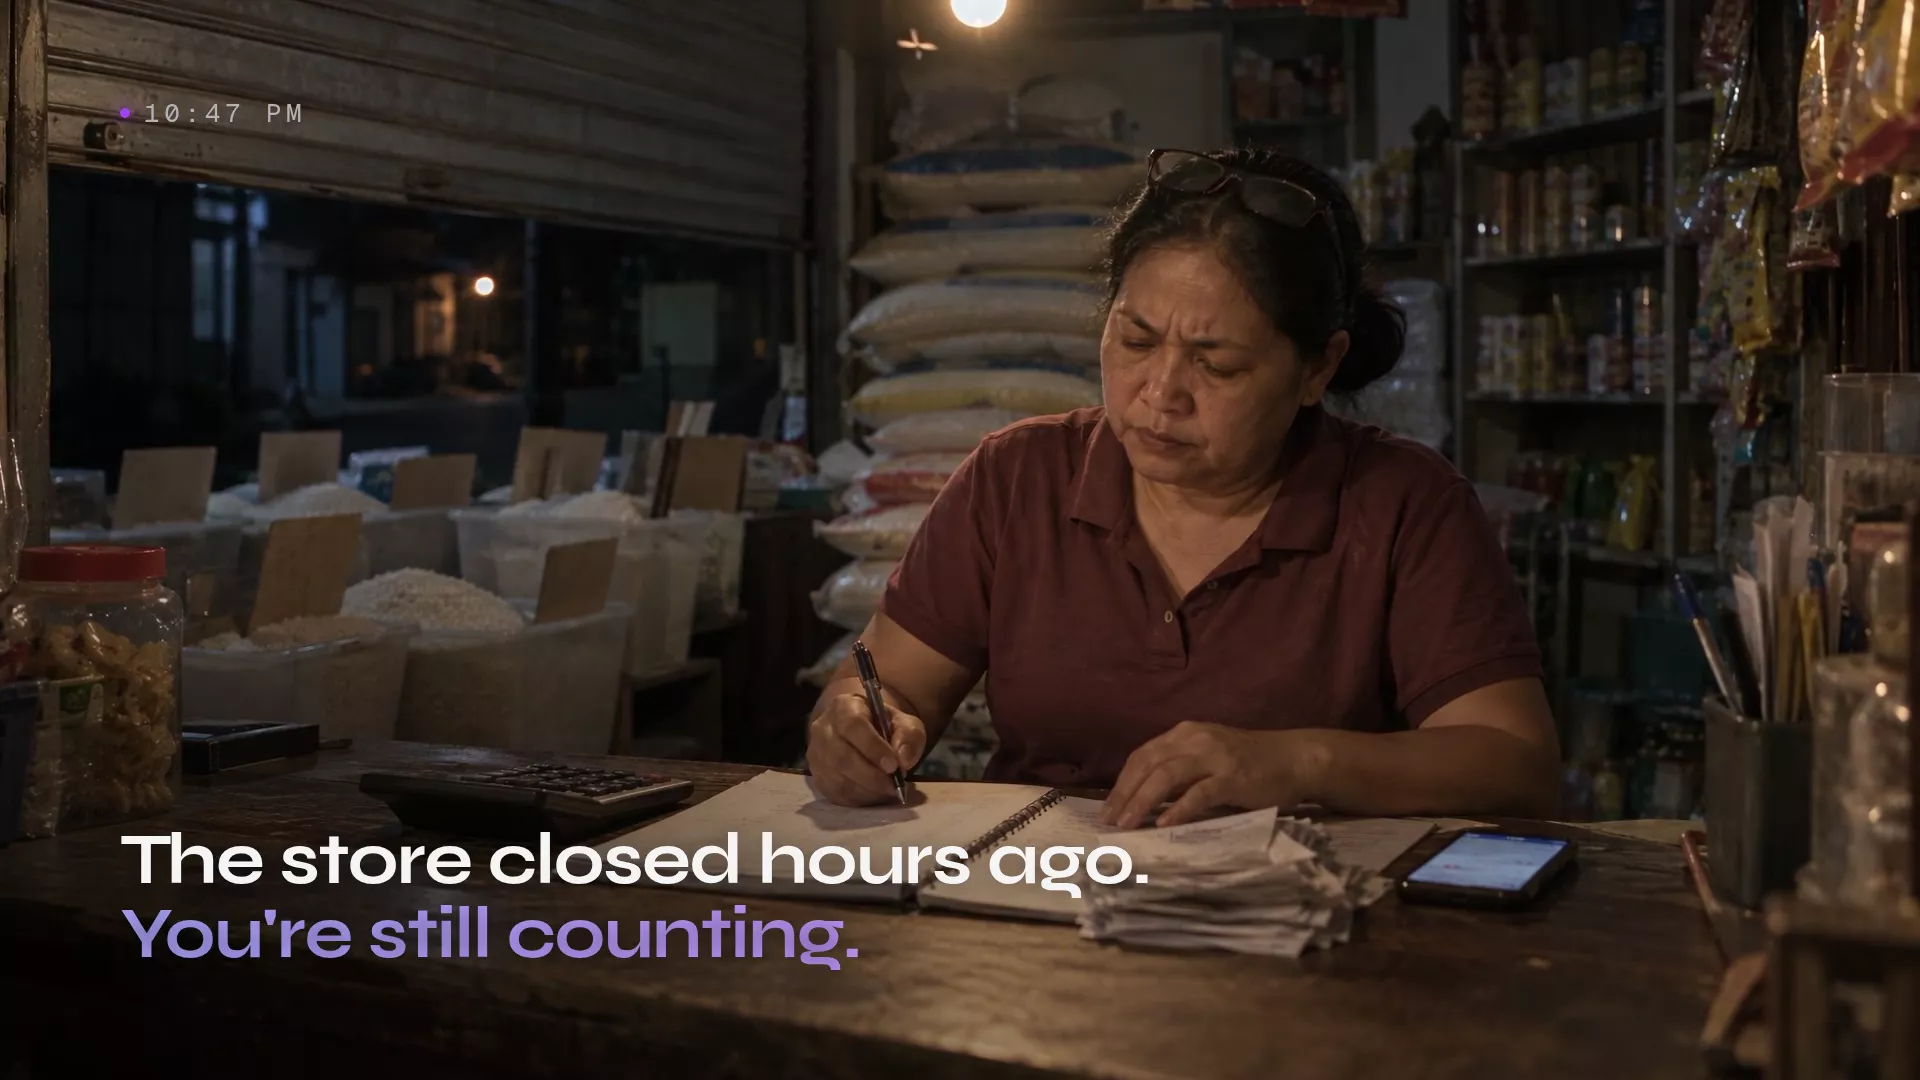
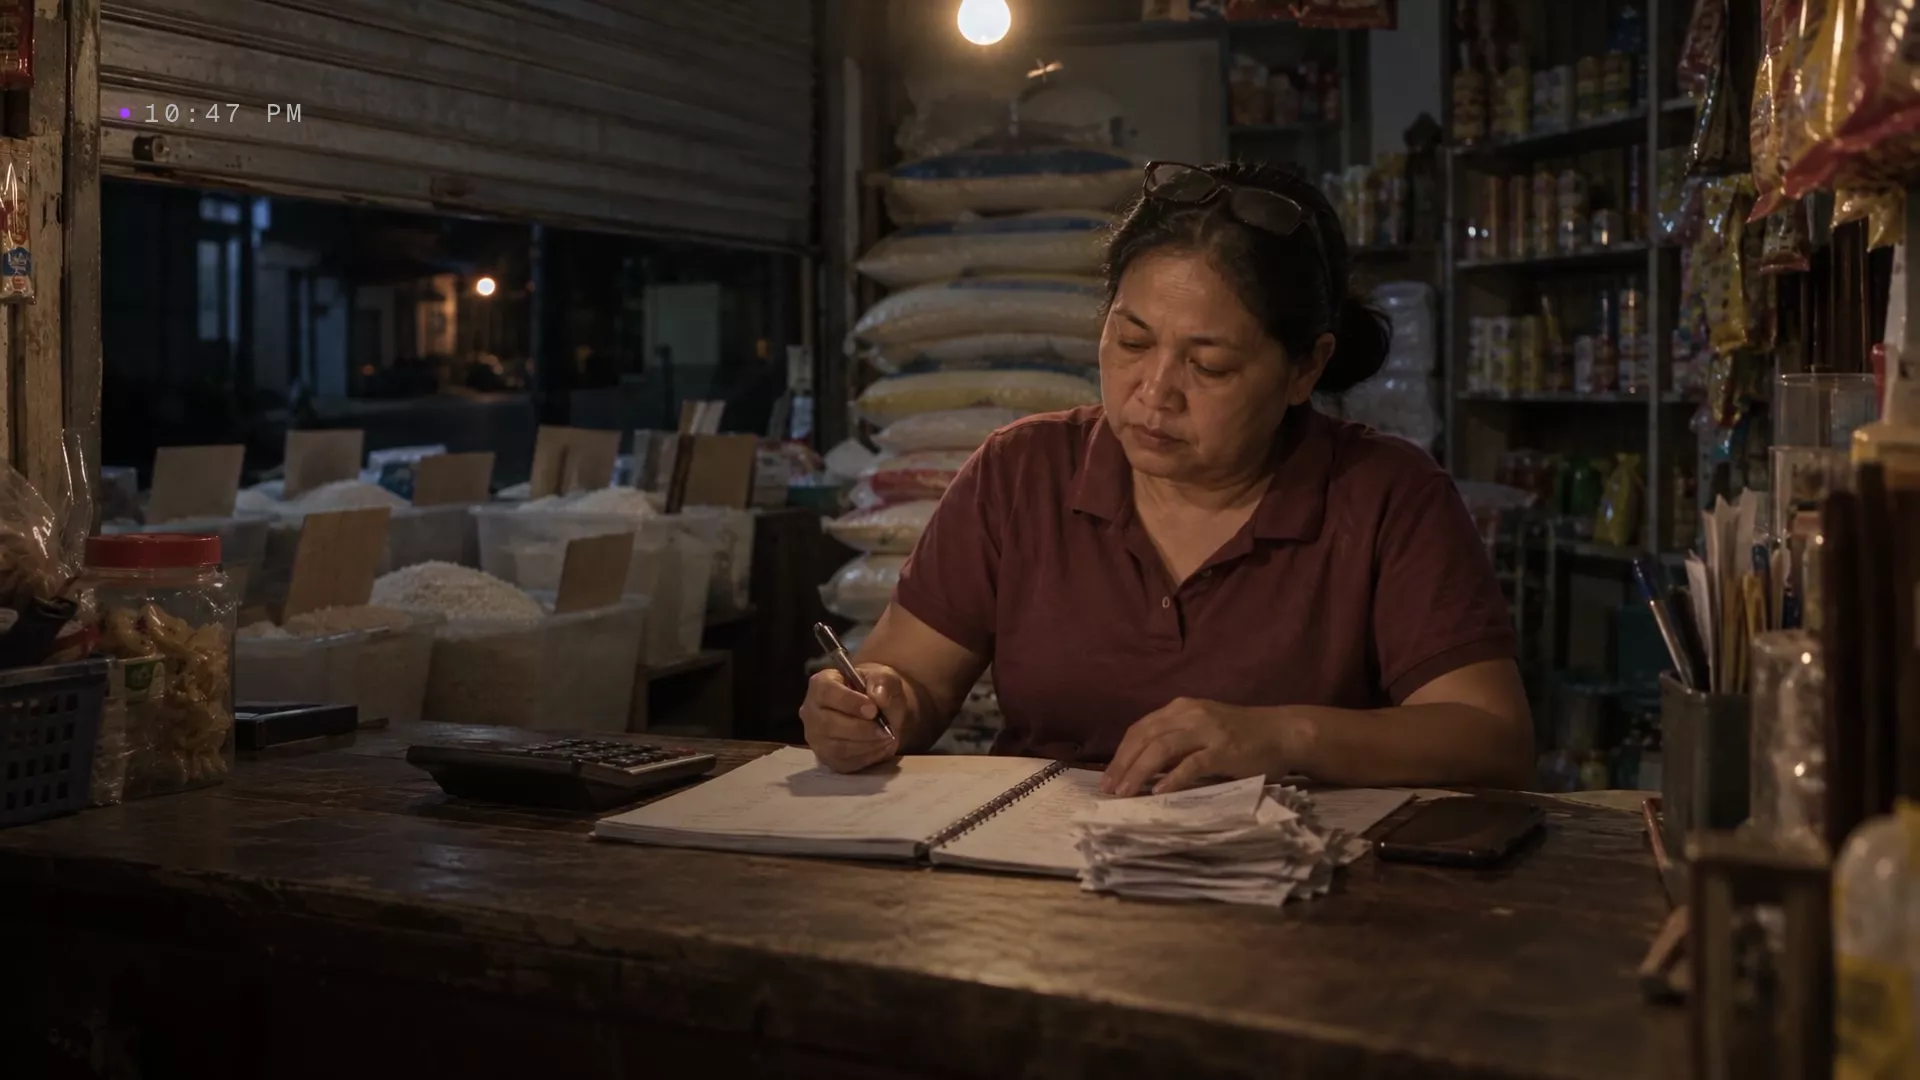
feat(2.5): embed brand video on the homepage after the opening sequence
New BrandVideo server component between CinematicStory and FeaturedWork:
native <video controls playsInline preload="none"> with WebM then MP4
sources, a poster, and an English captions track (off by default because
the headlines are burned in). No autoplay, no added client JS.

The poster is now the hook frame from just before the burned-in headline,
so native player controls never sit on top of text on small screens.

Claude-Session: https://claude.ai/code/session_01MWJ8kf8kNDnq2mbvY7yu43

diff --git a/components/site/BrandVideo.tsx b/components/site/BrandVideo.tsx
@@ -1,0 +1,37 @@
+import { FadeIn } from "./FadeIn";
+
+export function BrandVideo() {
+  return (
+    <section aria-labelledby="brand-video-heading" className="container-page py-16 sm:py-20">
+      <FadeIn>
+        <p className="label-mono">Watch / 1 minute</p>
+        <h2 id="brand-video-heading" className="mt-4 font-display text-3xl font-bold tracking-tight sm:text-4xl">
+          Still closing the day by hand?
+        </h2>
+        <p className="mt-4 max-w-2xl text-base leading-relaxed text-muted-foreground">
+          One minute on the chats, notebooks, and spreadsheets holding a business back, and what changes when it runs on
+          one system.
+        </p>
+      </FadeIn>
+      <FadeIn delay={0.06}>
+        <video
+          className="mt-10 block aspect-video h-auto w-full rounded-2xl border border-border bg-card focus-visible:outline-none focus-visible:ring-2 focus-visible:ring-primary focus-visible:ring-offset-4 focus-visible:ring-offset-background"
+          controls
+          playsInline
+          preload="none"
+          poster="/video/still-counting-poster.webp"
+          width={1920}
+          height={1080}
+          aria-describedby="brand-video-note"
+        >
+          <source src="/video/still-counting.webm" type="video/webm" />
+          <source src="/video/still-counting.mp4" type="video/mp4" />
+          <track kind="captions" src="/video/still-counting.en.vtt" srcLang="en" label="English" />
+        </video>
+        <p id="brand-video-note" className="mt-4 text-sm text-muted-foreground">
+          Scenes are dramatized. Screens shown are real KDV client projects. Captions available.
+        </p>
+      </FadeIn>
+    </section>
+  );
+}

diff --git a/app/page.tsx b/app/page.tsx
@@ -2,6 +2,7 @@ import type { Metadata } from "next";
 import { Hero } from "@/components/site/Hero";
 import { CinematicStory } from "@/components/site/CinematicStory";
 import { StoryChapters } from "@/components/site/StoryChapters";
+import { BrandVideo } from "@/components/site/BrandVideo";
 import { ServicesGrid } from "@/components/site/ServicesGrid";
 import { FeaturedWork } from "@/components/site/FeaturedWork";
 import { ProcessSteps } from "@/components/site/ProcessSteps";
@@ -49,6 +50,7 @@ export default function HomePage() {
         dangerouslySetInnerHTML={{ __html: JSON.stringify(jsonLd) }}
       />
       <CinematicStory hero={<Hero />} chapters={<StoryChapters />} />
+      <BrandVideo />
       <FeaturedWork />
       <ServicesGrid />
       <ProcessSteps />
